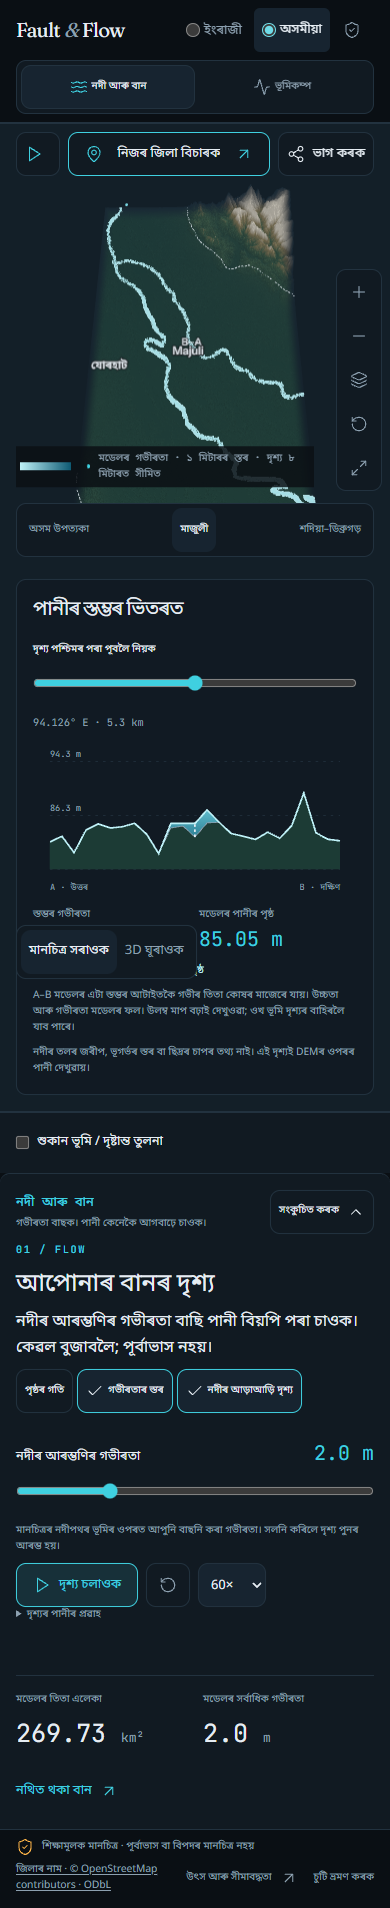
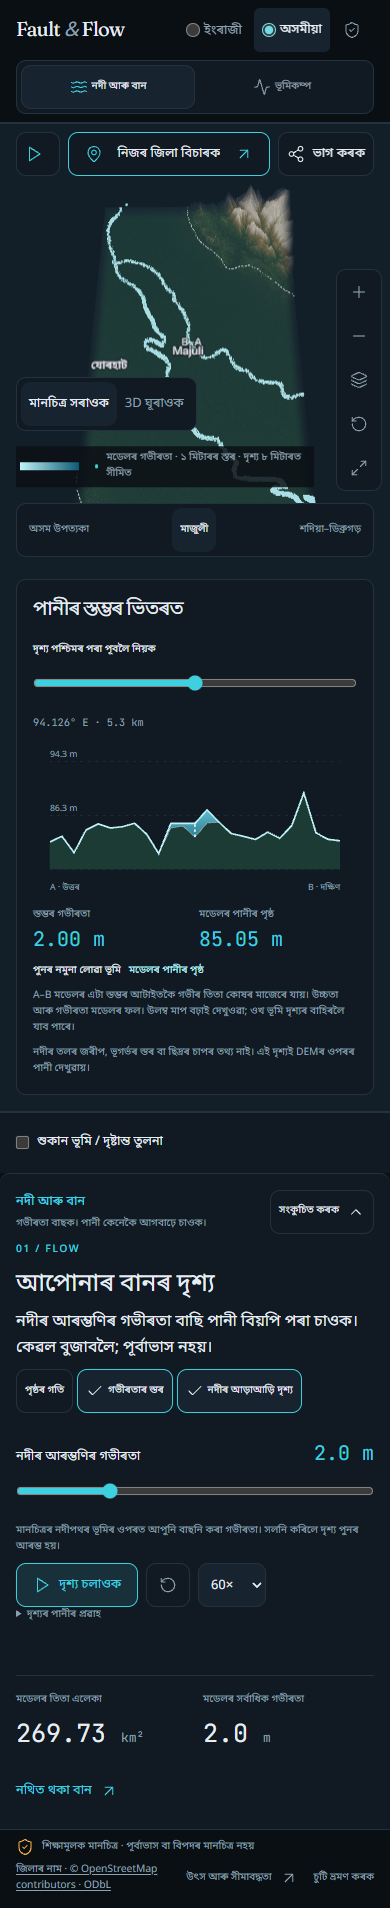
fix(release): resolve preview and bilingual mobile blockers
The release-candidate audit reproduced missing production preview assets, map navigation covering mobile depth values, and Assamese content inheriting English semantics. Keep the asset base consistent, confine navigation to the map, and label the app language so the candidate is usable and reviewable. Add regressions and refresh only the affected mobile depth captures.

diff --git a/vite.config.ts b/vite.config.ts
@@ -3,14 +3,14 @@ import react from '@vitejs/plugin-react';
 import tailwindcss from '@tailwindcss/vite';
 import { fileURLToPath, URL } from 'node:url';
 
-export default defineConfig(({ command }) => ({
+export default defineConfig(({ command, isPreview }) => ({
   // Production serves as a GitHub Pages project site under a sub-path
   // (https://madb0i.github.io/Fault-and-Flow/), so every URL Vite emits must
   // carry that prefix. Dev stays at '/' so `npm run dev` is unchanged.
   // Runtime assets (DEM PNGs, sidecars, fonts) all arrive via `?url` imports
   // and CSS, which Vite prefixes with this base automatically — nothing in
   // src/ may hardcode a root-absolute asset path for the same reason.
-  base: command === 'build' ? '/Fault-and-Flow/' : '/',
+  base: command === 'build' || isPreview ? '/Fault-and-Flow/' : '/',
   plugins: [react(), tailwindcss()],
   resolve: {
     alias: {

diff --git a/tests/deployment-base.test.ts b/tests/deployment-base.test.ts
@@ -1,0 +1,16 @@
+import { describe, expect, it } from 'vitest';
+import config from '../vite.config.js';
+
+describe('deployment asset base', () => {
+  it.each([
+    ['development', { command: 'serve', mode: 'development' }, '/'],
+    ['build', { command: 'build', mode: 'production' }, '/Fault-and-Flow/'],
+    [
+      'preview',
+      { command: 'serve', mode: 'production', isPreview: true },
+      '/Fault-and-Flow/',
+    ],
+  ] as const)('resolves assets for %s', (_name, environment, expected) => {
+    expect(config(environment).base).toBe(expected);
+  });
+});

diff --git a/src/ui/styles/atlas.css b/src/ui/styles/atlas.css
@@ -1424,6 +1424,13 @@
     bottom: auto;
     transform: translateY(-100%);
   }
+  .atlas-map:has(.flow-section) .map-navigation {
+    top: calc(
+      var(--atlas-mobile-map) - var(--space-2xl) - var(--control-size) - var(--space-m)
+    );
+    bottom: auto;
+    transform: translateY(-100%);
+  }
 }
 
 /* Final exploration tools share the atlas's hairlines and compact data rhythm. */

diff --git a/src/ui/App.tsx b/src/ui/App.tsx
@@ -415,6 +415,7 @@ export default function App() {
   return (
     <div
       className={`atlas-app${focus ? ' is-focused' : ''}`}
+      lang={locale}
       data-mode={mode}
       data-locale={locale}
       data-testid="app"

diff --git a/scripts/test-atlas.py b/scripts/test-atlas.py
@@ -31,6 +31,13 @@ def ready(page):
 def scan(page, label):
     overflow = page.evaluate("document.documentElement.scrollWidth > innerWidth")
     assert not overflow, label + ": horizontal overflow"
+    if page.viewport_size["width"] == 390 and page.locator(".flow-section").count():
+        canvas = page.get_by_test_id("terrain-canvas").bounding_box()
+        navigation = page.locator(".map-navigation").bounding_box()
+        section = page.locator(".flow-section").bounding_box()
+        assert navigation["y"] >= canvas["y"], label + ": navigation above map"
+        assert navigation["y"] + navigation["height"] <= canvas["y"] + canvas["height"], label + ": navigation outside map"
+        assert navigation["y"] + navigation["height"] <= section["y"], label + ": navigation covers section readouts"
     page.add_script_tag(path=str(ROOT / "node_modules/axe-core/axe.min.js"))
     results = page.evaluate("""async () => (await axe.run(document, {
         runOnly: {type: 'tag', values: ['wcag2a','wcag2aa','wcag21aa','wcag22aa']}

diff --git a/scripts/test-share-readiness.py b/scripts/test-share-readiness.py
@@ -61,6 +61,7 @@ with sync_playwright() as p:
             page.wait_for_load_state('networkidle')
             strings = page.evaluate(f"async () => (await import('/src/shared/i18n/atlas.ts')).ATLAS_COPY.{language}")
             expect(page.get_by_test_id('scenario-play')).to_be_enabled(timeout=60000)
+            expect(page.get_by_test_id('app')).to_have_attribute('lang',language)
             assert page.locator('[data-showcase]').count()==0, 'Replay forced on initial visit'
             assert page.get_by_test_id('scenario-play').bounding_box()['y'] < (844 if width==390 else 900)
             page.screenshot(path=str(OUT/f'first-{width}-{language}.png'),full_page=True)
